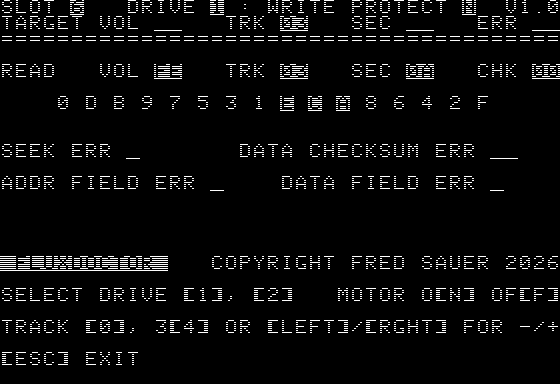
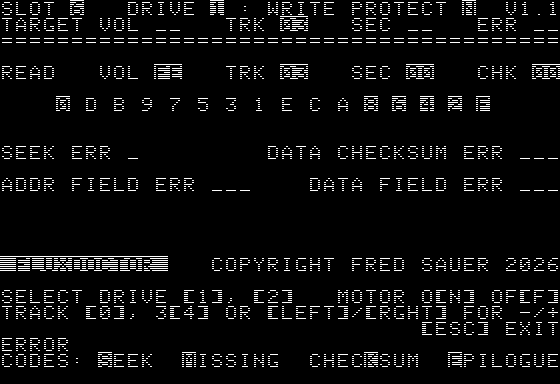
v1.1

diff --git a/README.md b/README.md
@@ -1,4 +1,4 @@
-# **`FLUXDOCTOR`** v1.0 for Apple II computers
+# **`FLUXDOCTOR`** V1.1 for Apple II computers
 
 Apple Disk II diagnostic utility for real-time
 troubleshooting, diagnositcs, and repair.